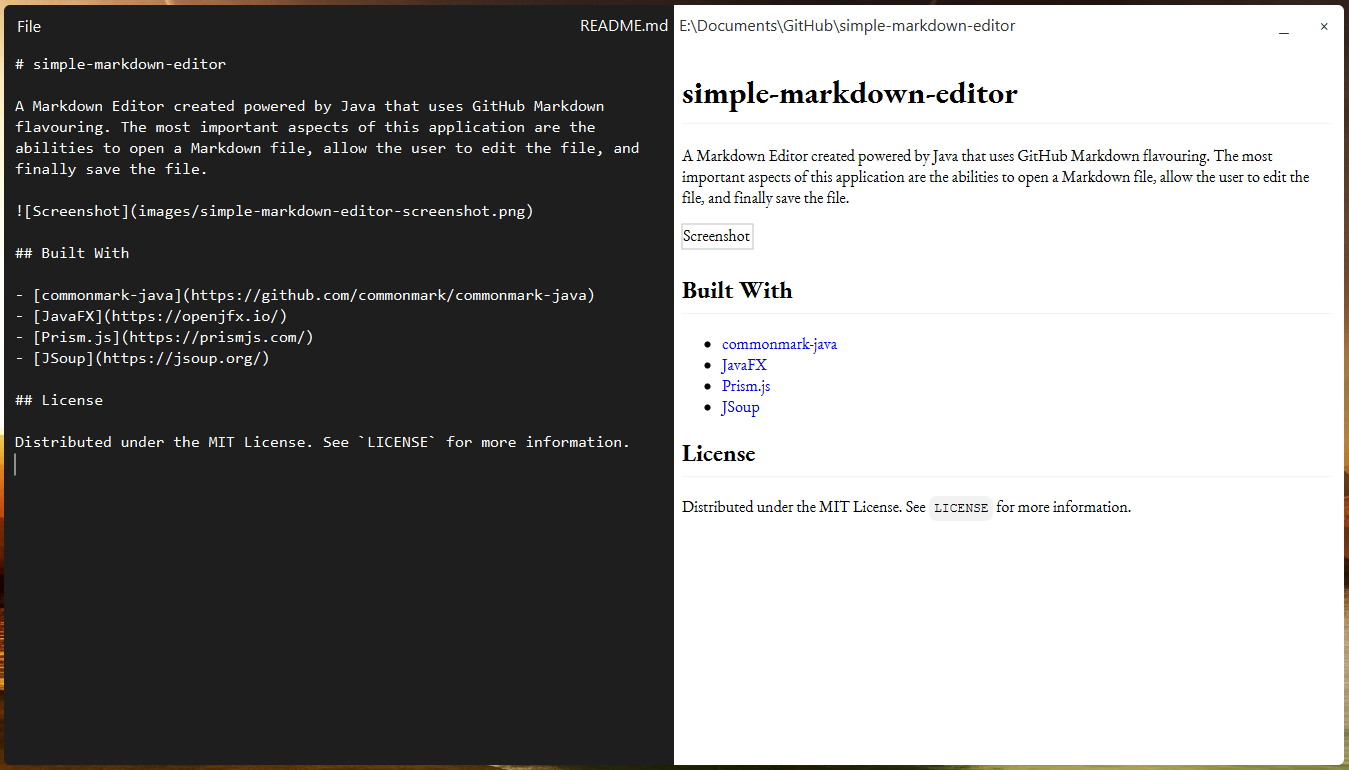
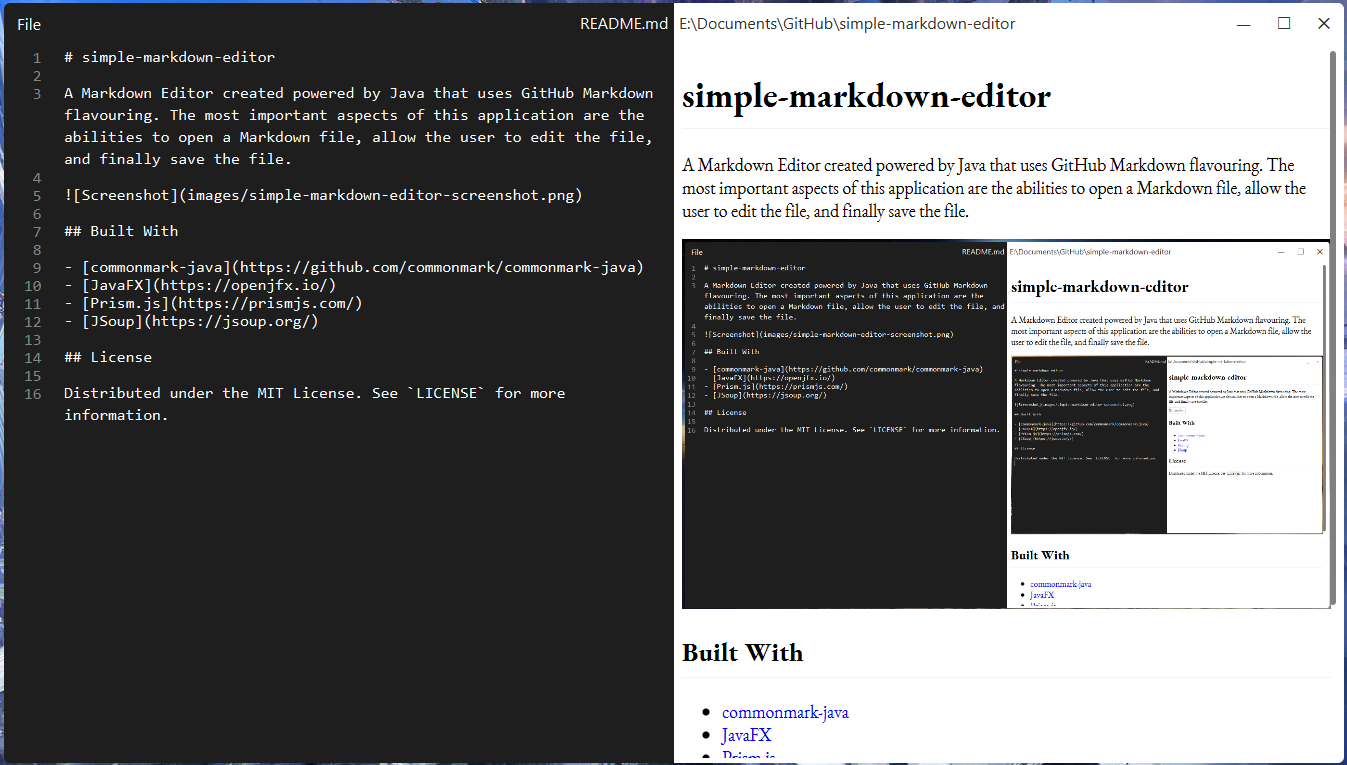
Added line numbers

diff --git a/src/Views/application.css b/src/Views/application.css
@@ -10,7 +10,7 @@
     -fx-border-width: -1;
 
     -fx-font-family: Consolas, 'Courier New', monospace;
-    -fx-font-size: 16;
+    -fx-font-size: 16px;
 }
 
 .code-area .content {
@@ -21,9 +21,20 @@
     -fx-background-color: #1e1e1e;
 }
 
-.code-area .text { -fx-fill: white; -fx-text-fill: white;}
+.code-area .text { 
+    -fx-fill: white; 
+}
 
-.code-area .lineno { -fx-background-color: #1e1e1e; }
+.code-area .lineno { 
+    -fx-background-color: #1e1e1e;
+    -fx-padding: 0 10px 0 20px;
+}
+
+.code-area .lineno .text{ 
+    -fx-background-color: #1e1e1e; 
+    -fx-font-size: 12.04685715983pt; 
+    -fx-fill: #858585;
+}
 
 .caret {
     -fx-stroke: white;
@@ -52,7 +63,7 @@
     -fx-border-width: -1;
 }
 
-.code-area .scroll-bar:vertical, 
+.virtualized-scroll-pane .scroll-bar:vertical, 
 .web-view .scroll-bar:vertical,
 .web-view .scroll-bar:horizontal {
 
@@ -60,7 +71,7 @@
     -fx-border-color:transparent;
 }
 
-.code-area .scroll-bar:vertical .track, 
+.virtualized-scroll-pane .scroll-bar:vertical .track, 
 .web-view .scroll-bar:vertical .track,
 .web-view .scroll-bar:horizontal .track {
 
@@ -71,8 +82,8 @@
 }
 
  
-.code-area .scroll-bar:vertical .increment-button,
-.code-area .scroll-bar:vertical .decrement-button, 
+.virtualized-scroll-pane .scroll-bar:vertical .increment-button,
+.virtualized-scroll-pane .scroll-bar:vertical .decrement-button, 
 .web-view .scroll-bar:vertical .increment-button, 
 .web-view .scroll-bar:vertical .decrement-button,
 .web-view .scroll-bar:horizontal .increment-button, 
@@ -84,8 +95,8 @@
  
 }
 
-.code-area .scroll-bar .increment-arrow,
-.code-area .scroll-bar .decrement-arrow,
+.virtualized-scroll-pane .increment-arrow,
+.virtualized-scroll-pane .scroll-bar .decrement-arrow,
 .web-view .scroll-bar .increment-arrow,
 .web-view .scroll-bar .decrement-arrow {
 
@@ -94,7 +105,7 @@
 
 }
 
-.code-area .scroll-bar:vertical .thumb,
+.virtualized-scroll-pane .scroll-bar:vertical .thumb,
 .web-view .scroll-bar:vertical .thumb,
 .web-view .scroll-bar:horizontal .thumb {
 

diff --git a/src/Controllers/AppController.java b/src/Controllers/AppController.java
@@ -429,11 +429,11 @@ public class AppController implements Initializable {
         VirtualizedScrollPane<CodeArea> sp = new VirtualizedScrollPane<>(input);
 
         codeAreaContainer.getChildren().add(sp);
-    
+
         AnchorPane.setLeftAnchor(sp, 0.0);
         AnchorPane.setRightAnchor(sp, 0.0);
-        AnchorPane.setBottomAnchor(sp, 0.0);
-        AnchorPane.setTopAnchor(sp, 0.0); 
+        AnchorPane.setBottomAnchor(sp, 5.0);
+        AnchorPane.setTopAnchor(sp, 5.0); 
         
         // Parse the editor each time the user types
         input.textProperty().addListener((observableValue, oldValue, newValue) -> {

diff --git a/README.md b/README.md
@@ -10,6 +10,7 @@ A Markdown Editor created powered by Java that uses GitHub Markdown flavouring. 
 - [JavaFX](https://openjfx.io/)
 - [Prism.js](https://prismjs.com/)
 - [JSoup](https://jsoup.org/)
+- [RichTextFX](https://github.com/FXMisc/RichTextFX)
 
 ## License
 
